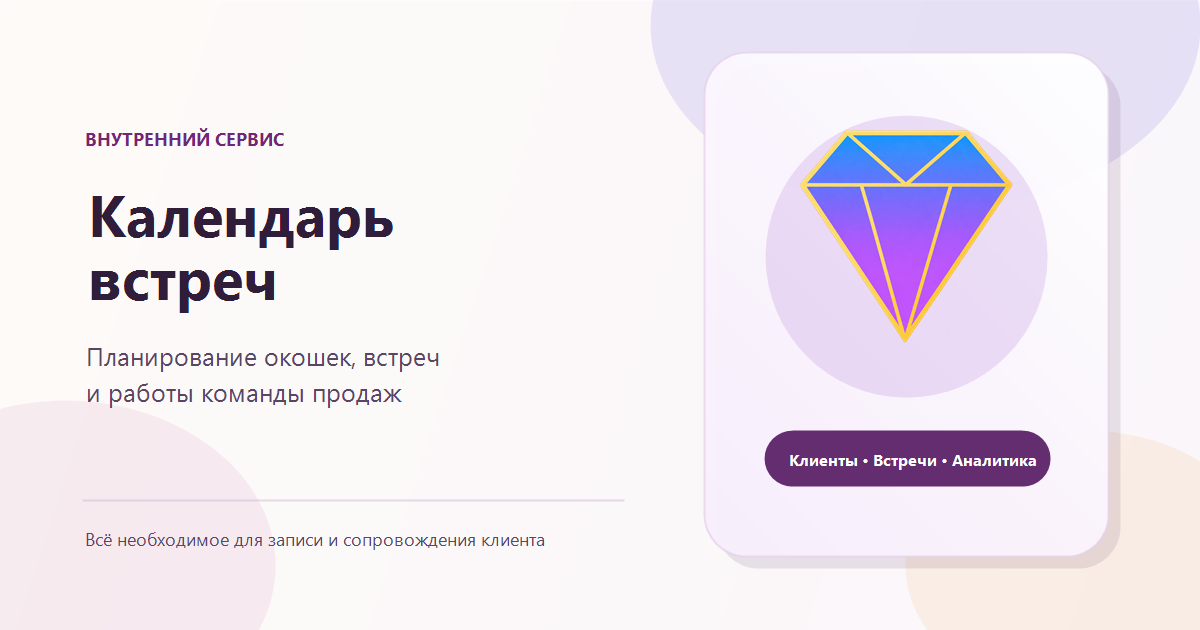
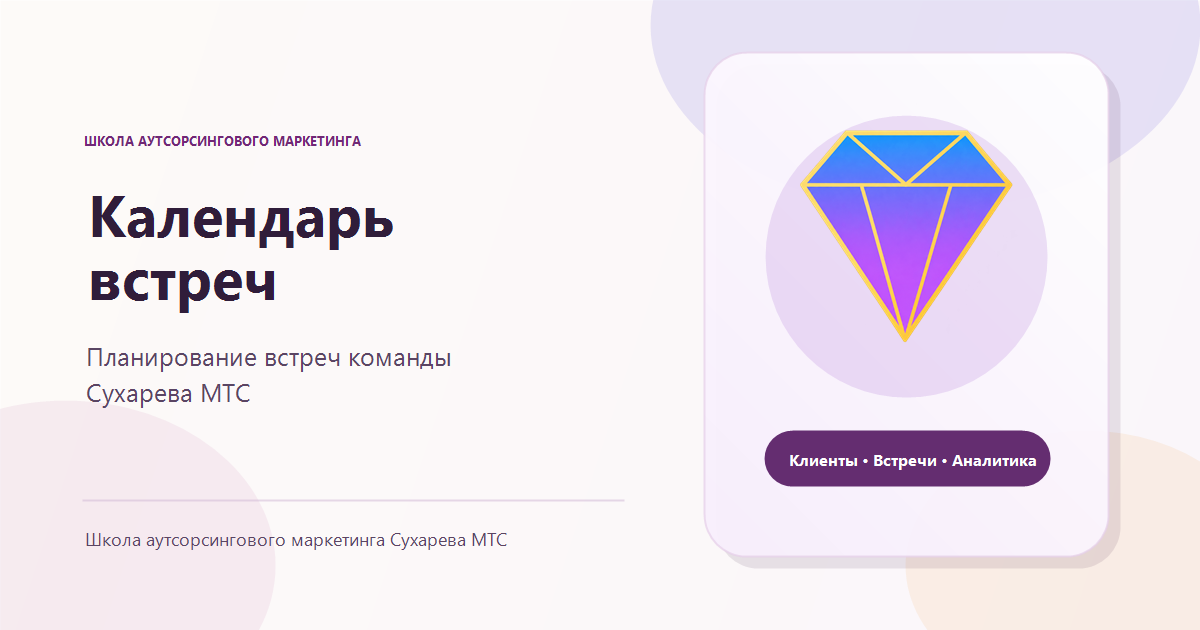
Describe calendar as Sukhareva MTC team tool

Changed region(s): [[0.0617, 0.5429, 0.37, 0.6635], [0.0617, 0.8444, 0.4625, 0.8746], [0.0617, 0.2111, 0.3083, 0.2413]]

diff --git a/client/index.html b/client/index.html
@@ -3,25 +3,25 @@
   <head>
     <meta charset="UTF-8" />
     <meta name="viewport" content="width=device-width, initial-scale=1.0, maximum-scale=1" />
-    <title>Календарь встреч — планирование встреч команды</title>
-    <meta name="description" content="Внутренний сервис для планирования встреч, управления клиентами и работы команды продаж." />
+    <title>Календарь встреч — команда Школы аутсорсингового маркетинга Сухарева MTC</title>
+    <meta name="description" content="Планирование встреч команды Школы аутсорсингового маркетинга Сухарева MTC." />
     <meta name="theme-color" content="#fdfaf8" />
     <meta property="og:type" content="website" />
     <meta property="og:locale" content="ru_RU" />
     <meta property="og:site_name" content="Календарь встреч" />
-    <meta property="og:title" content="Календарь встреч" />
-    <meta property="og:description" content="Планирование встреч, окошек и работы команды продаж в одном сервисе." />
+    <meta property="og:title" content="Календарь встреч команды Сухарева MTC" />
+    <meta property="og:description" content="Планирование встреч команды Школы аутсорсингового маркетинга Сухарева MTC." />
     <meta property="og:url" content="https://new.calendar-vstrech.ru/" />
-    <meta property="og:image" content="https://new.calendar-vstrech.ru/calendar-link-preview.png?v=1" />
-    <meta property="og:image:secure_url" content="https://new.calendar-vstrech.ru/calendar-link-preview.png?v=1" />
+    <meta property="og:image" content="https://new.calendar-vstrech.ru/calendar-link-preview.png?v=2" />
+    <meta property="og:image:secure_url" content="https://new.calendar-vstrech.ru/calendar-link-preview.png?v=2" />
     <meta property="og:image:type" content="image/png" />
     <meta property="og:image:width" content="1200" />
     <meta property="og:image:height" content="630" />
-    <meta property="og:image:alt" content="Календарь встреч — сервис для команды продаж" />
+    <meta property="og:image:alt" content="Календарь встреч команды Школы аутсорсингового маркетинга Сухарева MTC" />
     <meta name="twitter:card" content="summary_large_image" />
-    <meta name="twitter:title" content="Календарь встреч" />
-    <meta name="twitter:description" content="Планирование встреч, окошек и работы команды продаж в одном сервисе." />
-    <meta name="twitter:image" content="https://new.calendar-vstrech.ru/calendar-link-preview.png?v=1" />
+    <meta name="twitter:title" content="Календарь встреч команды Сухарева MTC" />
+    <meta name="twitter:description" content="Планирование встреч команды Школы аутсорсингового маркетинга Сухарева MTC." />
+    <meta name="twitter:image" content="https://new.calendar-vstrech.ru/calendar-link-preview.png?v=2" />
     <link rel="icon" type="image/png" href="/diamond-favicon.png?v=1" />
     <link rel="preconnect" href="https://fonts.googleapis.com">
     <link rel="preconnect" href="https://fonts.gstatic.com" crossorigin>
